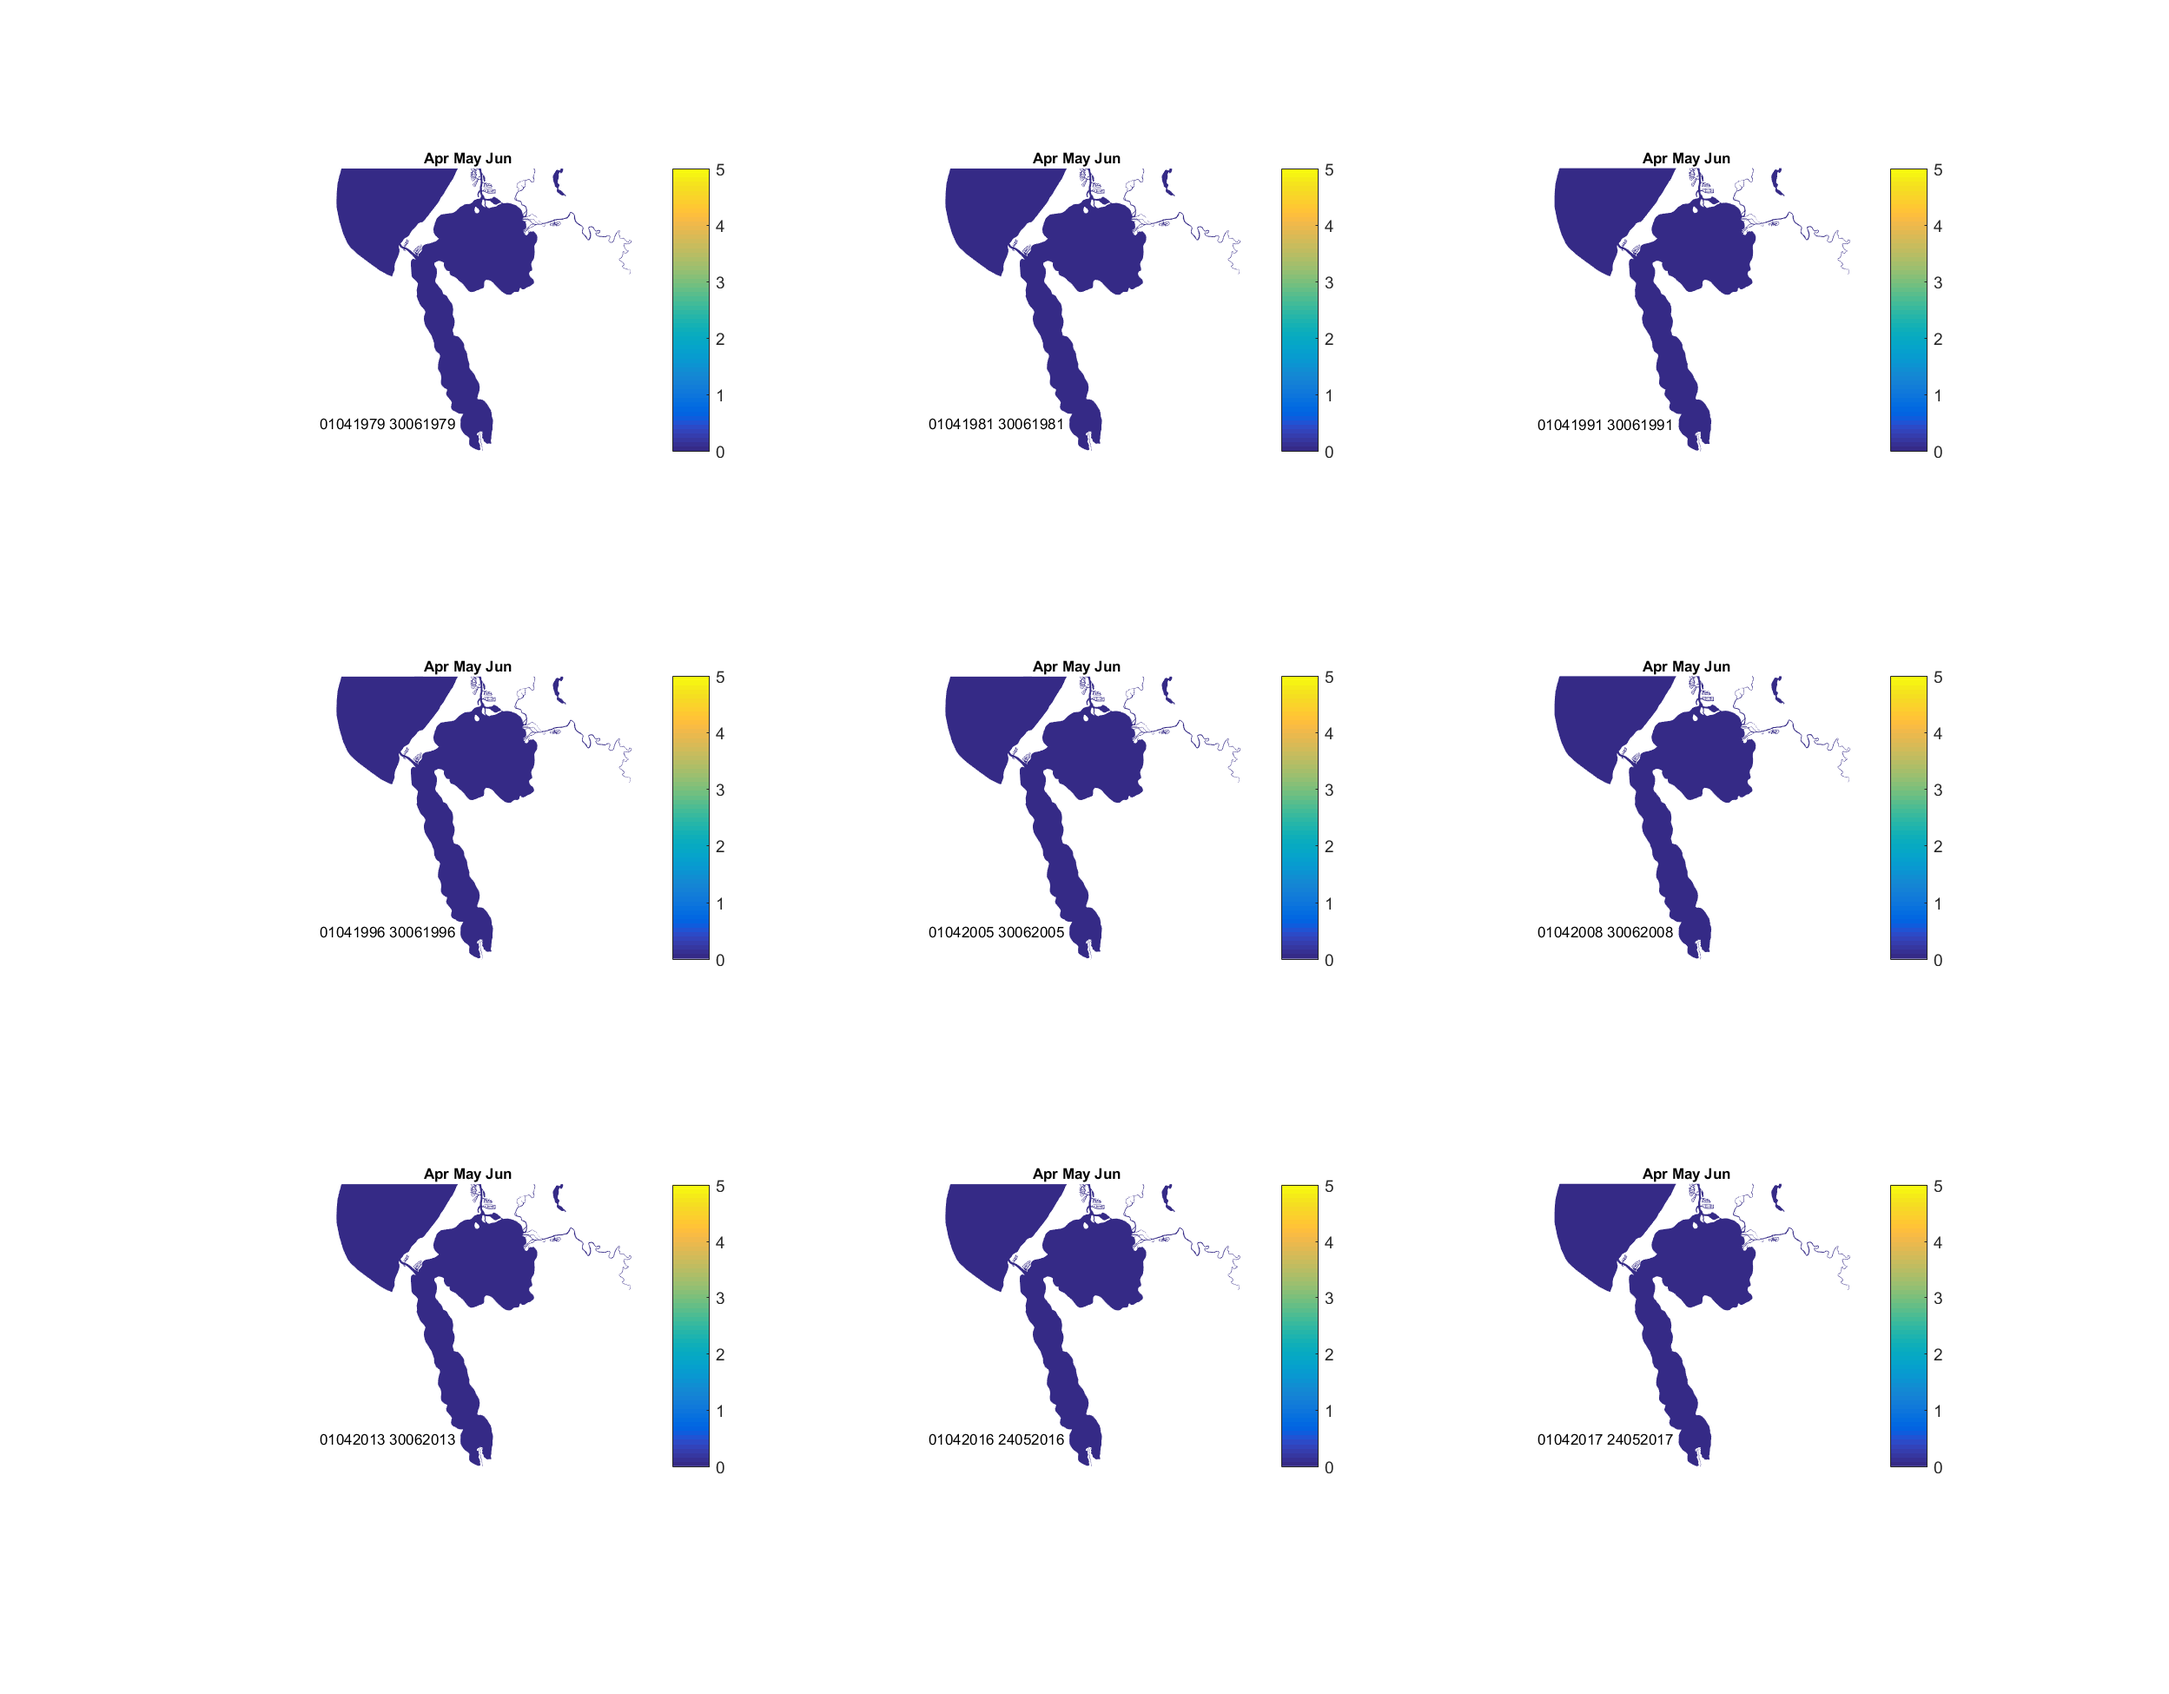
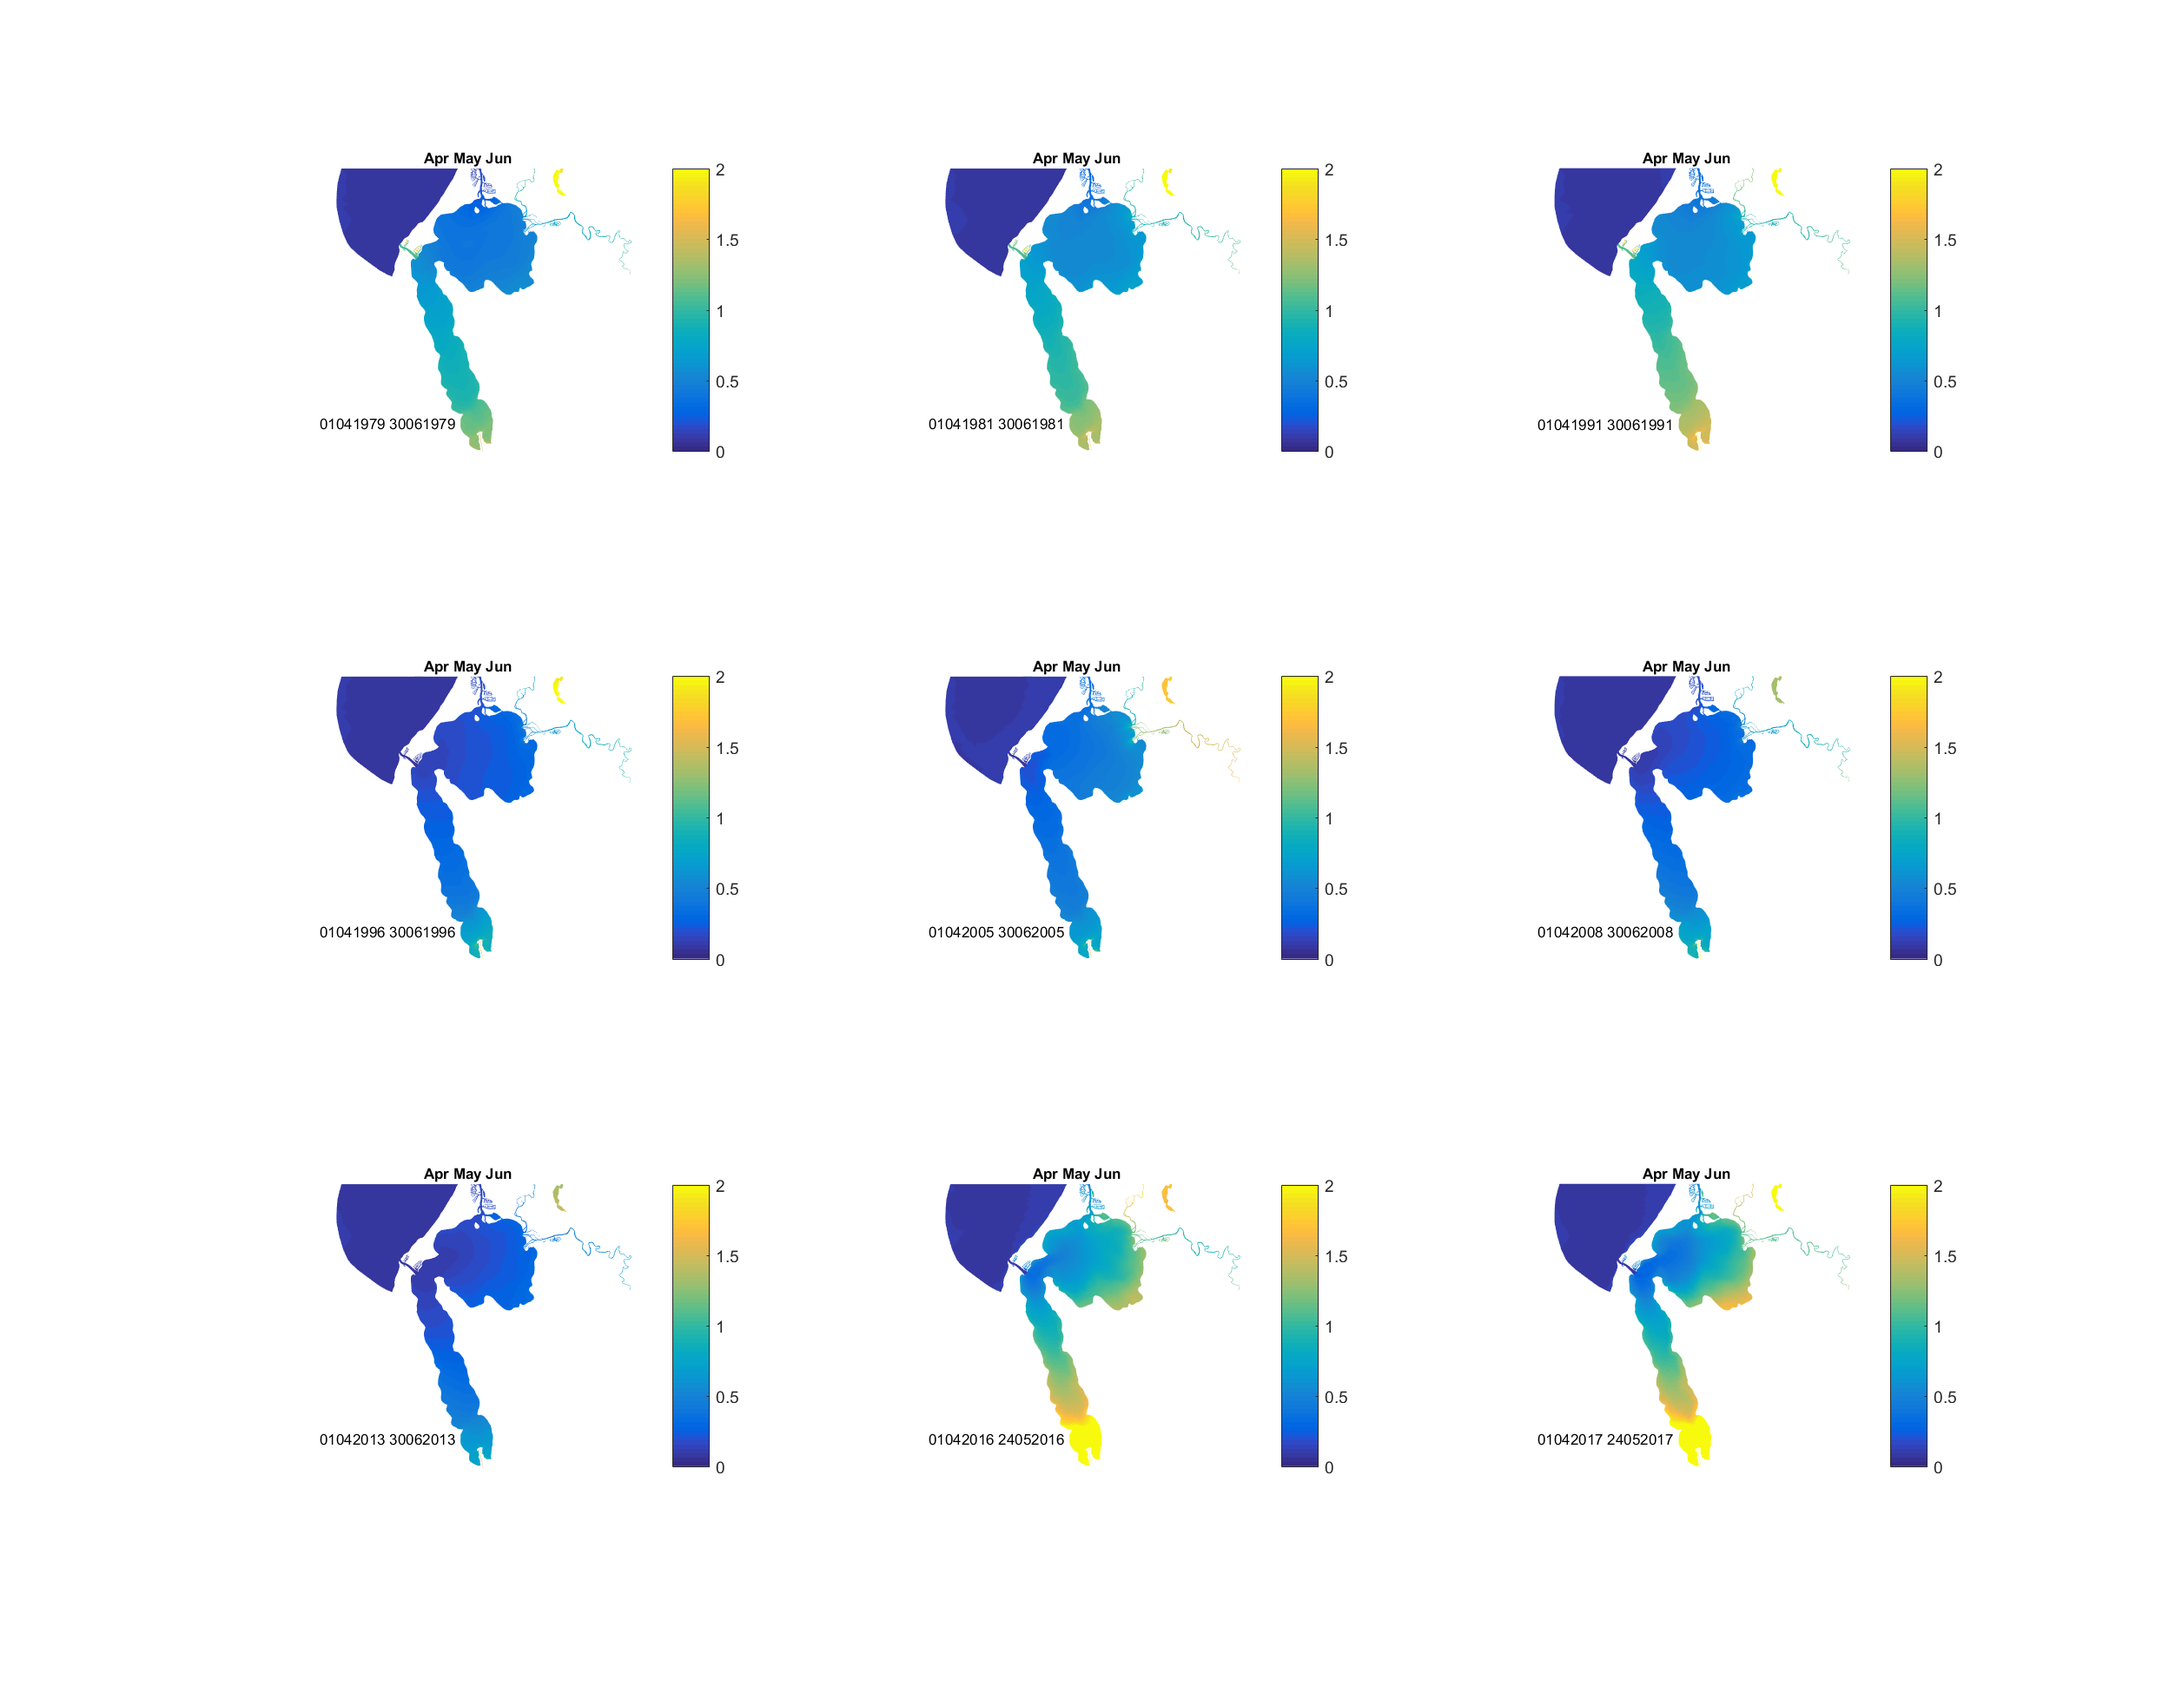
changes

diff --git a/TUFLOWFV/site_processing/peel/Comparison Mapping/rolling_maps_4_mean_TN.m b/TUFLOWFV/site_processing/peel/Comparison Mapping/rolling_maps_4_mean_TN.m
@@ -68,10 +68,15 @@ for i = 1:10 %the number of monthgroups
         sss = find(dvec(:,2) == therange(1) | dvec(:,2) == therange(2) | dvec(:,2) == therange(3) );
         
         thedata = data(j).savedata.(thevar).Top(:,sss);
-        thedata(thedata > 2000) = NaN;
         
         
-        TN = mean(~isnan(thedata),2);
+        ss = find(thedata > 5000);
+        
+        if ~isempty(ss)
+             TN = mean((thedata(:,1:end-1)),2);
+        else
+            TN = mean((thedata),2);
+        end
         %TN(TN > 100) = NaN;
         TN = TN * 14/1000;
         
